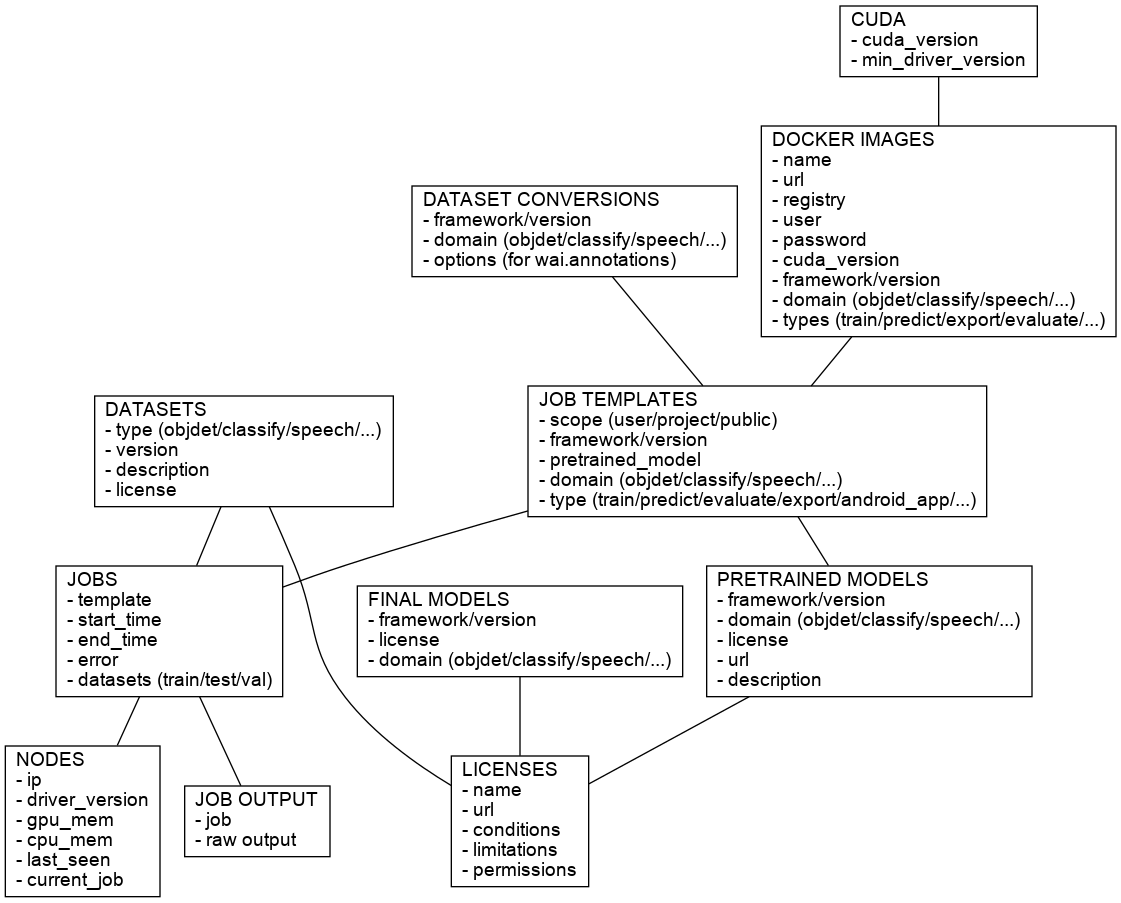
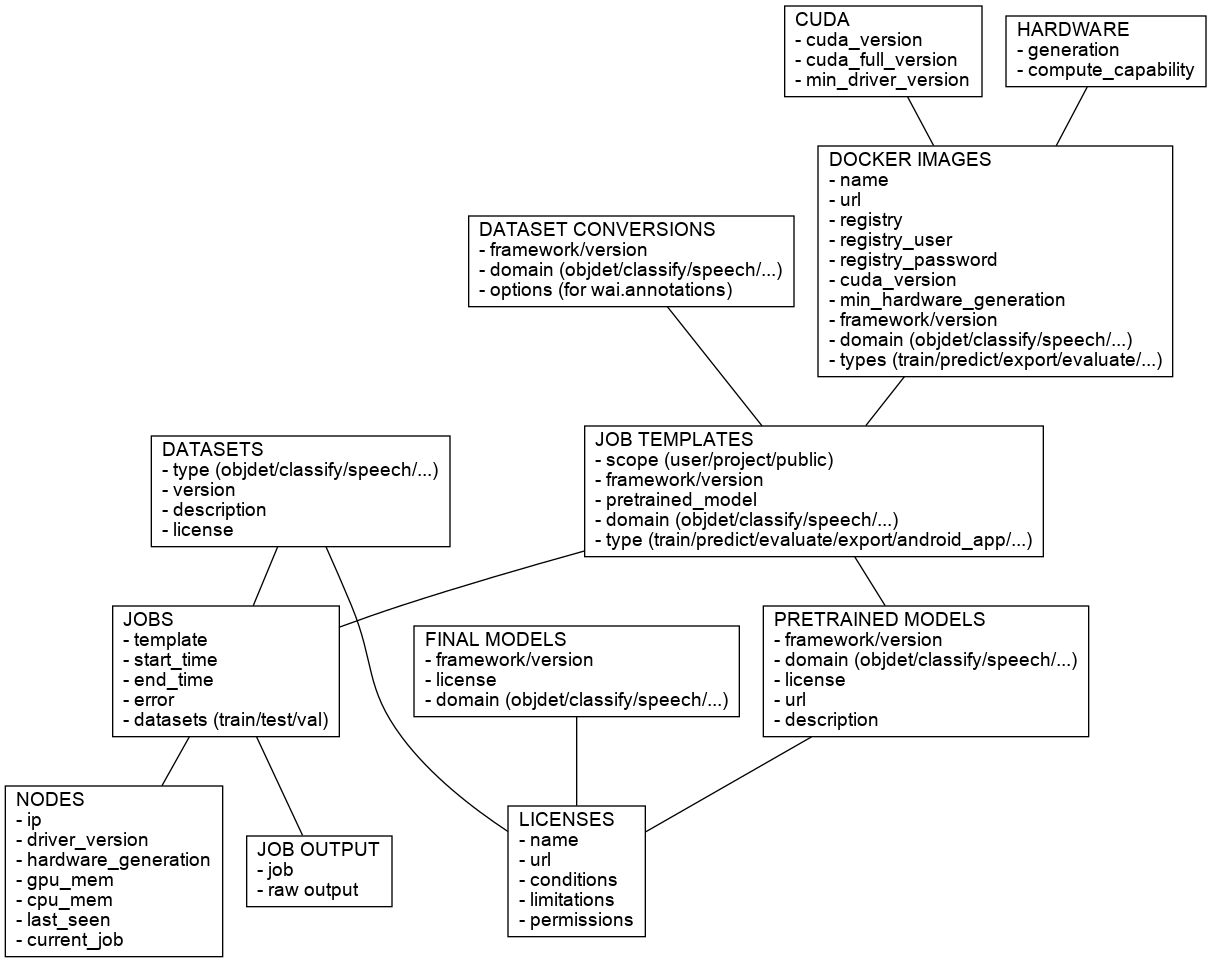
added cuda, docker-images and hardware

diff --git a/docs/docker_images.md b/docs/docker_images.md
@@ -1,0 +1,65 @@
+Docker plays a central part in UFDL, not just for training models, but also
+for exporting them and generating other output.
+
+# Fields
+
+* name
+* url (full URL used for a `docker pull`)
+* registry_url (the URL of the registry)
+* registry_user (only necessary if not anonymous access)
+* registry_password (dito)
+* cuda_version (the required cuda version to run this image)
+* min_hardware (Pascal=1080Ti, Turing=2080Ti)
+* framework_name
+* framework_version
+* domain (objdet/classify/speech/...)
+* types (train/predict/export/evaluate/...)
+
+# Actions
+
+## Add docker image
+
+requires:
+
+  * name
+  * url
+  * registry_url
+  * registry_user
+  * registry_password
+  * cuda_version
+  * min_hardware
+  * framework_name
+  * framework_version
+  * domain
+  * types
+
+## Update docker image
+
+partial update of any of these fields:
+
+  * name
+  * url
+  * registry_url
+  * registry_user
+  * registry_password
+  * cuda_version
+  * min_hardware
+  * framework_name
+  * framework_version
+  * domain
+  * types
+
+
+## Delete docker image
+
+requires:
+
+  * name
+  * version
+
+
+## Links
+
+* [docker](https://www.docker.com/)
+* [aml-repo](https://aml-repo.cms.waikato.ac.nz/)
+

diff --git a/docs/cuda.md b/docs/cuda.md
@@ -1,0 +1,39 @@
+Based on the NVIDIA driver installed on a system only
+certain versions of CUDA inside docker images will work.
+
+# Fields
+
+* cuda_version (10.0)
+* cuda_full_version (10.0.130)
+* driver_min_version (410.48)
+
+# Actions
+
+## Add mapping
+
+requires:
+
+  * cuda_version
+  * cuda_full_version
+  * driver_min_version
+
+## Update harware
+
+partial update of any of these fields:
+
+  * cuda_version
+  * cuda_full_version
+  * driver_min_version
+
+
+## Delete hardware
+
+requires:
+
+  * cuda_version
+
+
+## Links
+
+* [CUDA/Driver version](https://docs.nvidia.com/deploy/cuda-compatibility/index.html#binary-compatibility)
+

diff --git a/docs/hardware.md b/docs/hardware.md
@@ -1,0 +1,38 @@
+NVIDIA cards use belong to certain hardware generations, which have
+codenames. This table contains the hardware names and their compute
+capability.
+
+
+# Fields
+
+* generation
+* compute_capability
+
+# Actions
+
+## Add hardware
+
+requires:
+
+  * generation
+  * compute_capability
+
+## Update harware
+
+partial update of any of these fields:
+
+  * generation
+  * compute_capability
+
+
+## Delete hardware
+
+requires:
+
+  * generation
+
+
+## Links
+
+* [Hardware support](https://docs.nvidia.com/deploy/cuda-compatibility/index.html#support-hardware)
+
